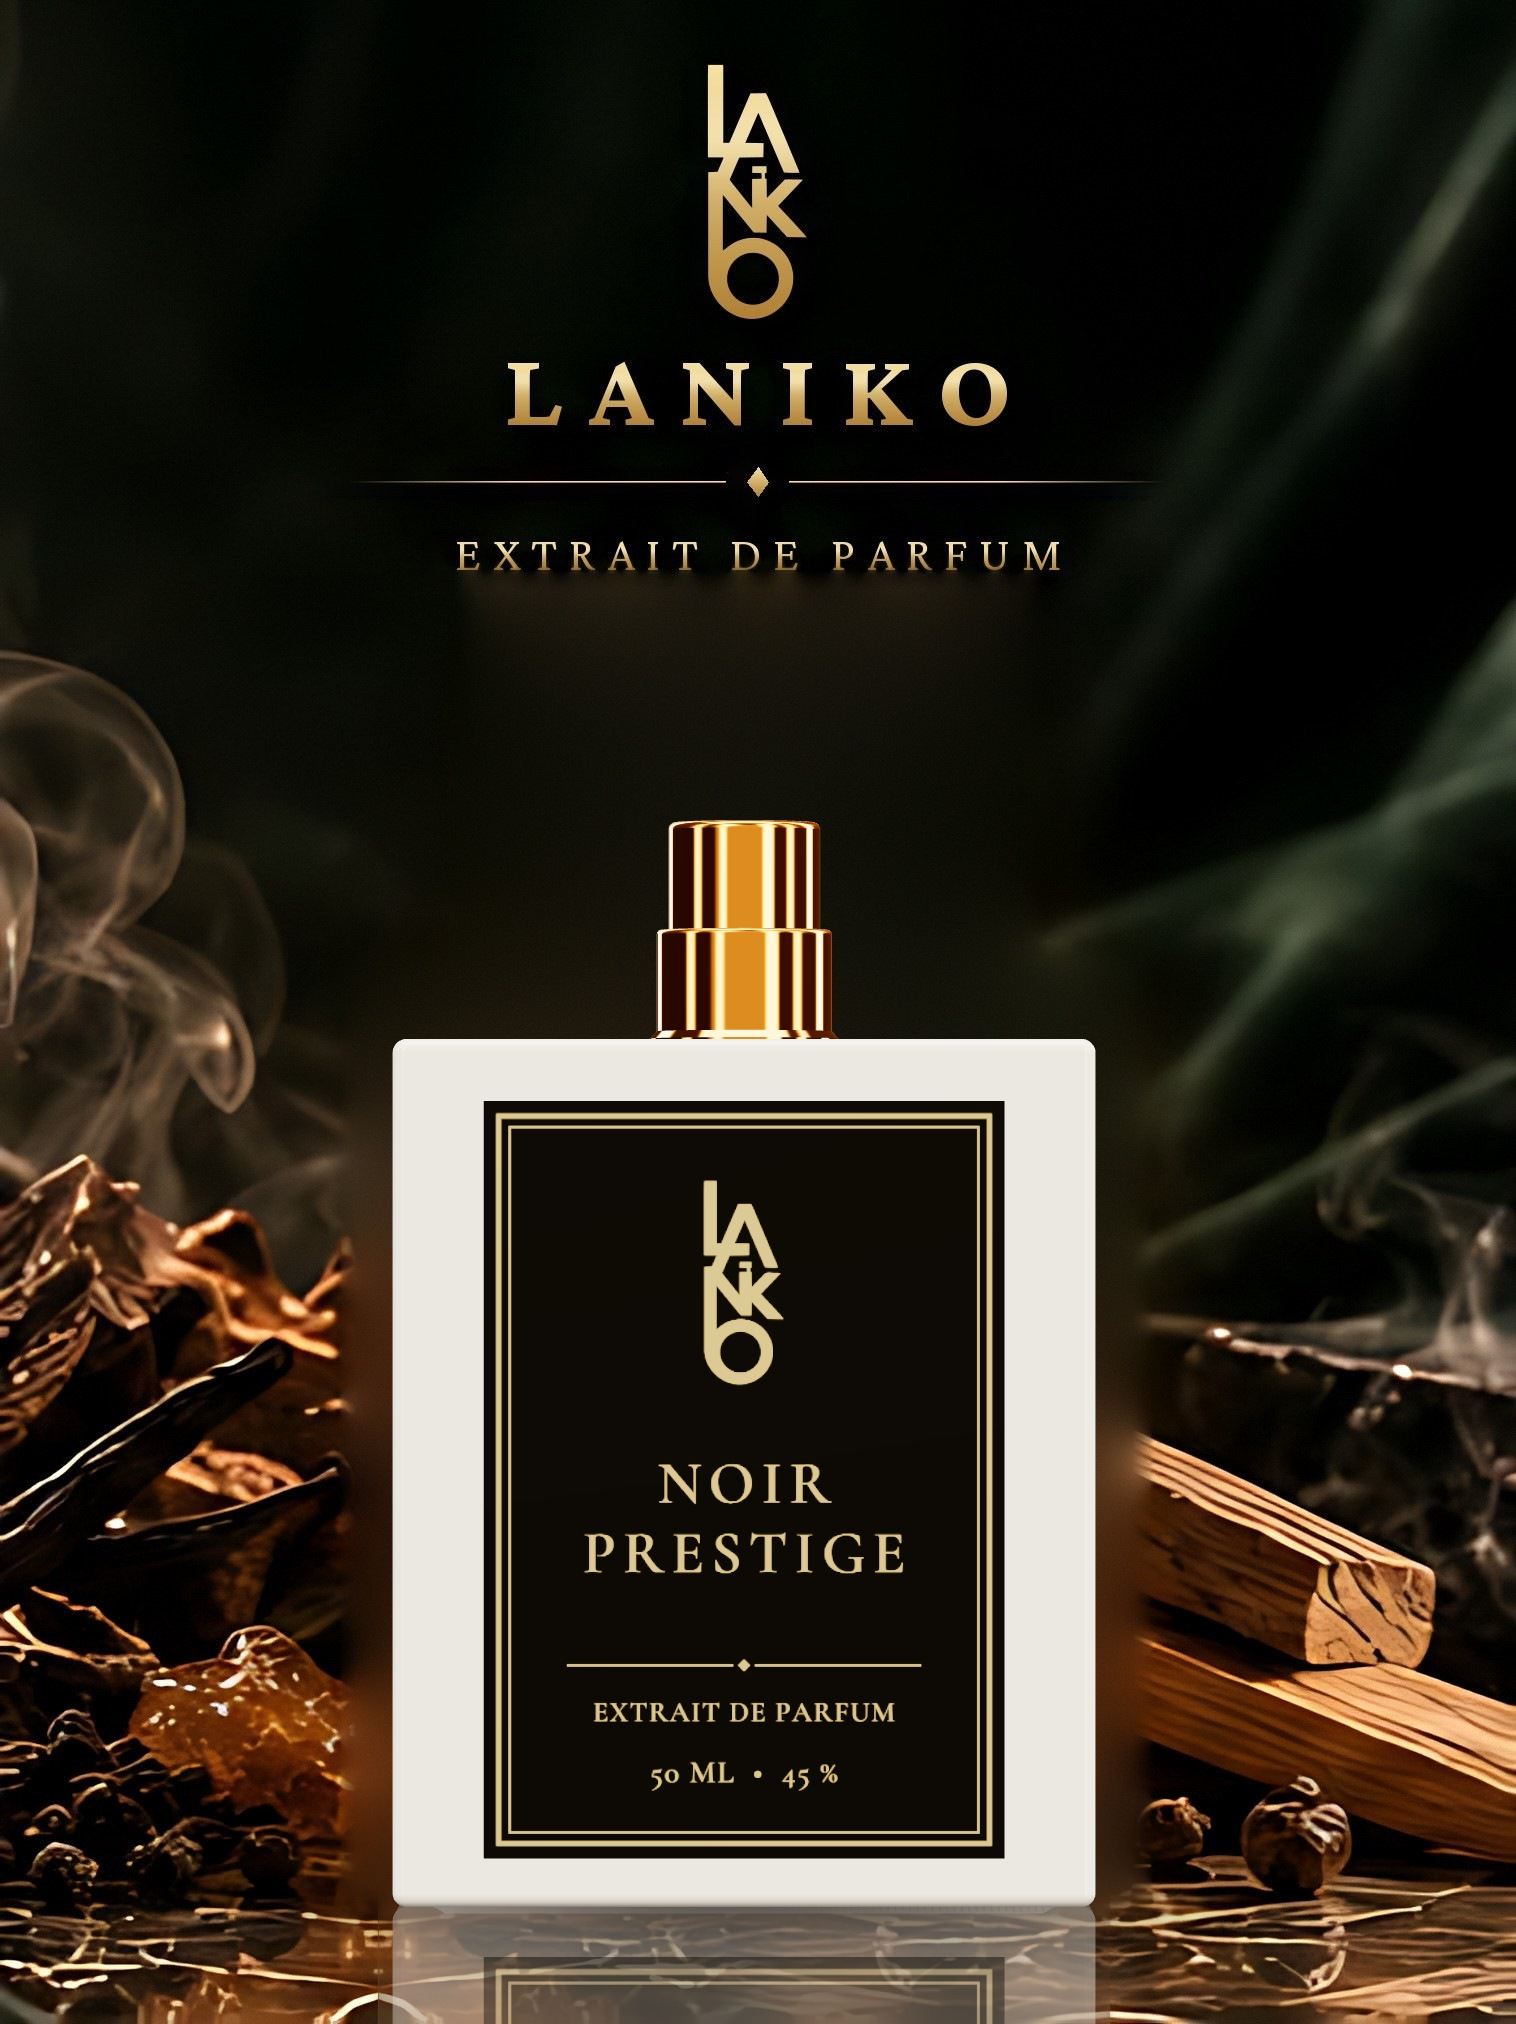
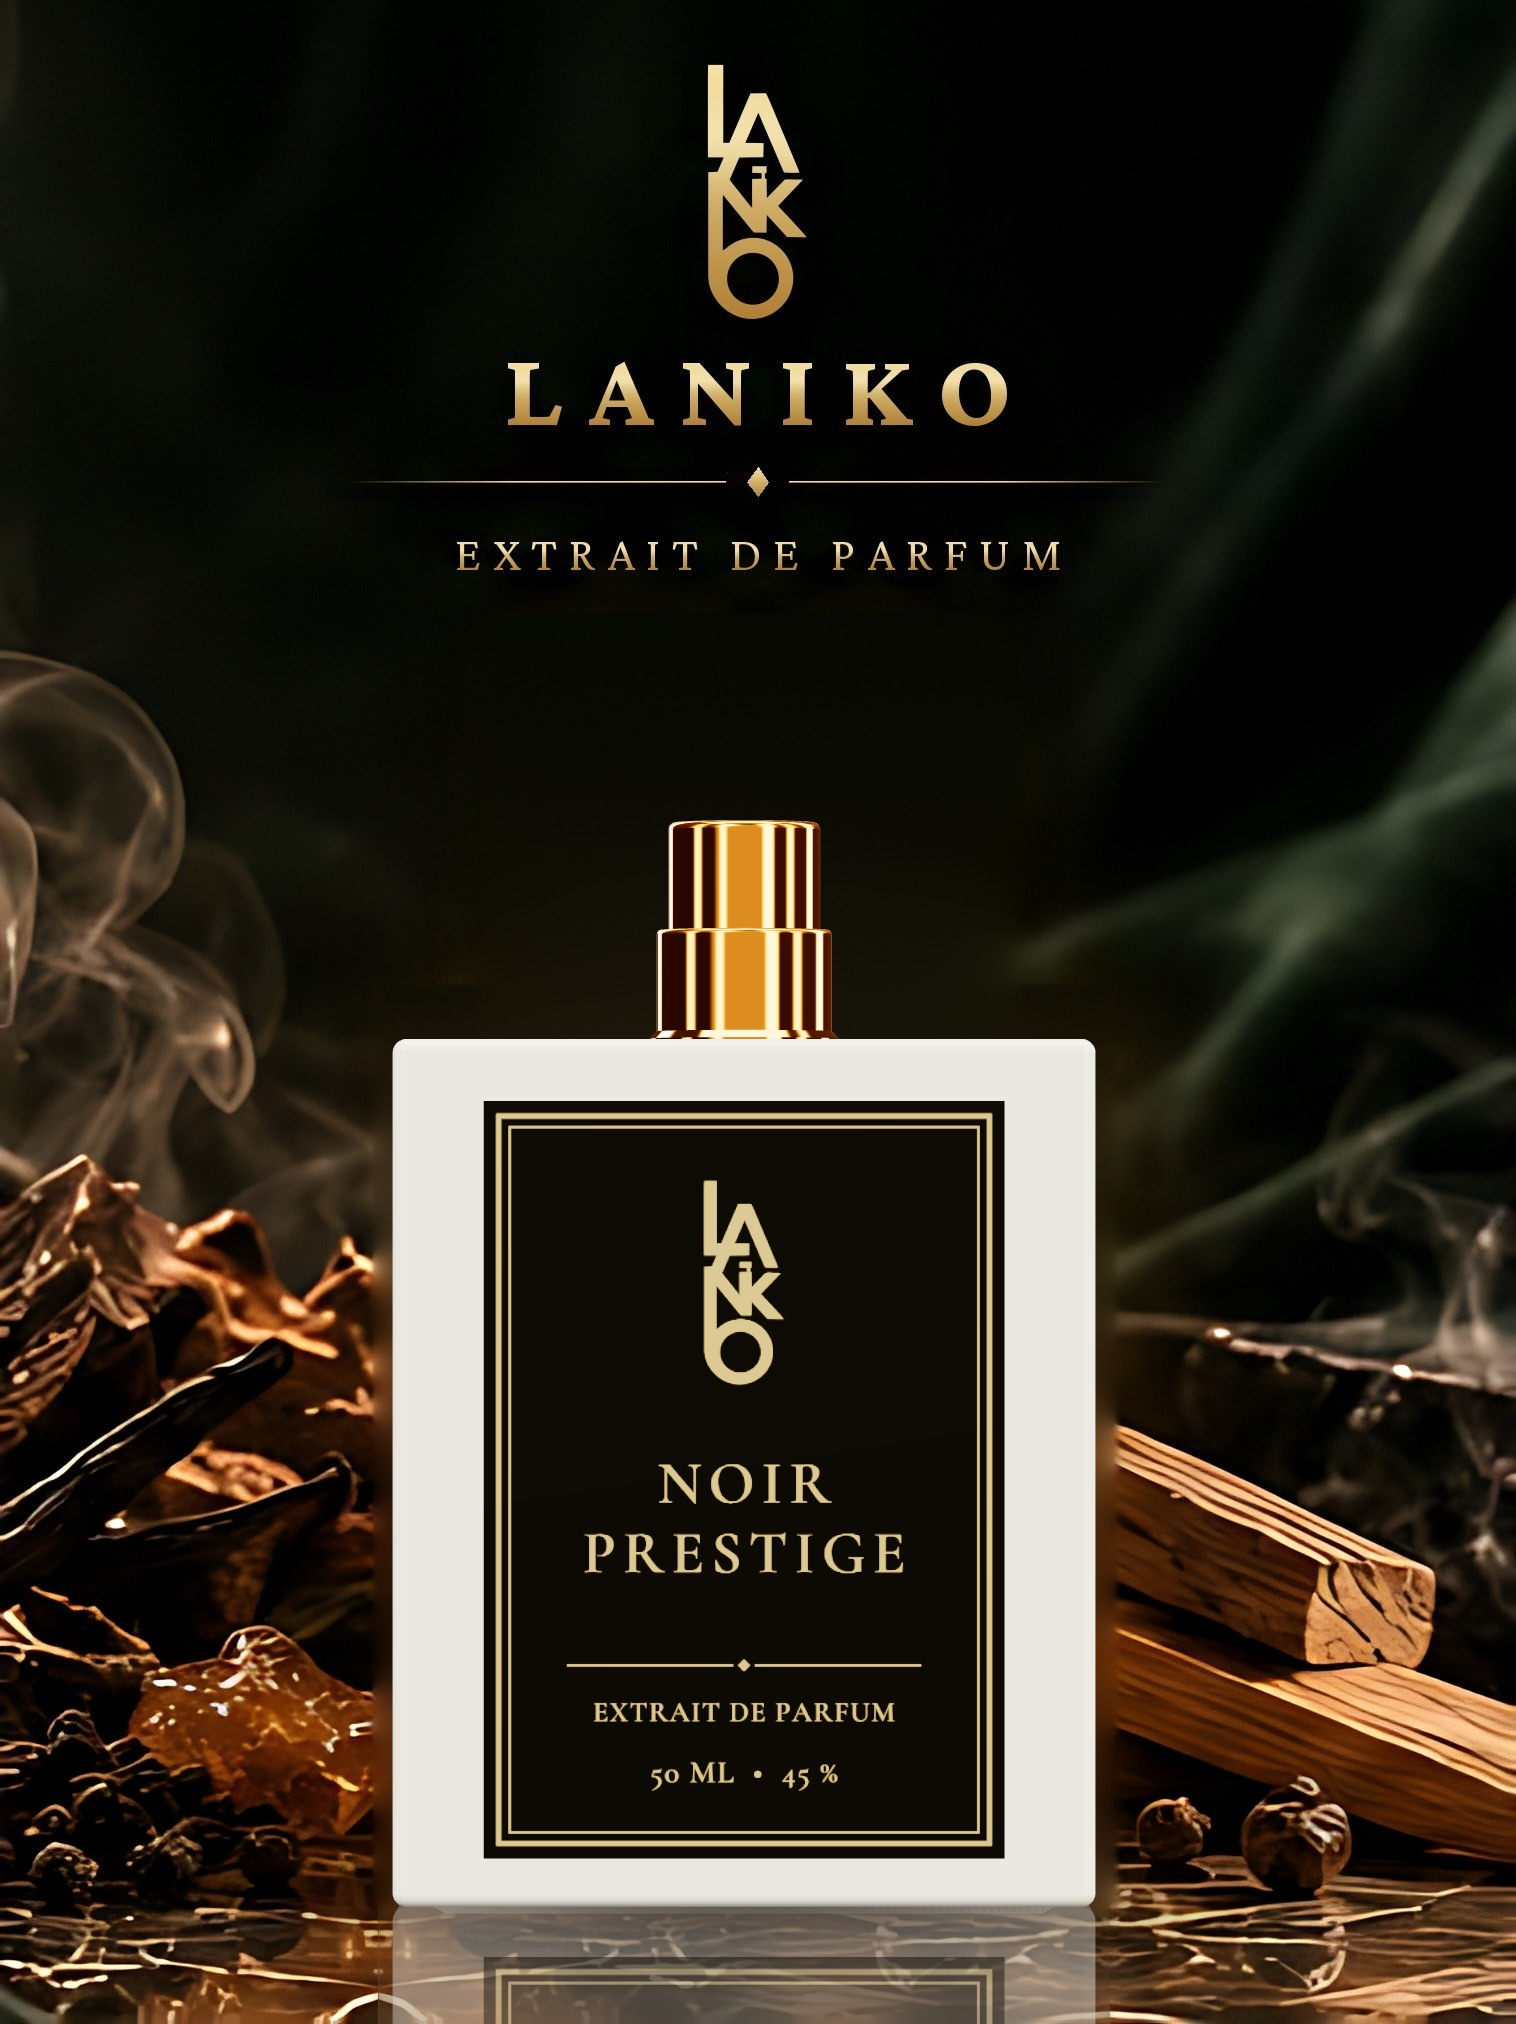
Animate every smoke in every picture (smoke-only layer drifting upwards), rebuild the background behind the old bottle
Claude-Session: https://claude.ai/code/session_01UcqBSTGGdYJCsLfUZ3upKN

diff --git a/smoke-bg.js b/smoke-bg.js
@@ -45,16 +45,18 @@ vec3 smokeAt(vec2 uv, float p) {
 void main() {
   vec2 uv = vUv;
   vec3 base = texture(uBase, uv).rgb;
-  float sp = 0.125;                                   // one cycle = 8 s
+  float sp = 0.1667;                                  // one cycle = 6 s
   float p1 = fract(uTime * sp);
   float p2 = fract(uTime * sp + 0.5);
   float w1 = 1.0 - abs(2.0 * p1 - 1.0);
   float w2 = 1.0 - w1;
   vec3 moving = smokeAt(uv, p1) * w1 + smokeAt(uv, p2) * w2;
-  moving *= 1.32;                                     // two half-faded copies are a touch thinner than one
+  moving *= 1.12;                                     // two half-faded copies are a touch thinner than one
   vec3 still = texture(uSmoke, uv).rgb;
   float k = smoothstep(0.0, 1.6, uTime);              // eases from the still picture into the motion
-  outColor = vec4(base + mix(still, moving, k), 1.0);
+  // a faint part of the smoke stays where it was (the plume never empties out), the rest climbs
+  vec3 drift = still * 0.22 + moving * 0.78;
+  outColor = vec4(base + mix(still, drift, k), 1.0);
 }`;
 
 function compile(gl, type, src) {
@@ -95,7 +97,7 @@ function makeNoise(size = 256) {
   return data;
 }
 
-export function createSmokeBackground(canvas, baseImg, smokeImg, { rise = 0.2 } = {}) {
+export function createSmokeBackground(canvas, baseImg, smokeImg, { rise = 0.17 } = {}) {
   let gl;
   try {
     gl = canvas.getContext("webgl2", { alpha: false, antialias: false, premultipliedAlpha: false, preserveDrawingBuffer: false });

diff --git a/tools/fixplate.py b/tools/fixplate.py
@@ -1,45 +1,102 @@
-import cv2, numpy as np, sys, time
-from skimage.restoration import inpaint_biharmonic
-B={
+"""Re-build the background behind the old bottle (plates-orig/<id>-bg.jpg -> images/<id>-bg.jpg).
+ low frequencies : harmonic (Laplace) fill from everything around the hole  -> same colours / glow as the surroundings
+ high frequencies: texture (silk folds, grain, haze) copied from the picture just above the hole, mirrored
+                   (taken from the smoke-free base so no smoke gets copied)
+usage: python3 tools/fixplate.py [orig_dir]   (run from the repo root; needs the original plates in orig_dir)"""
+import cv2, numpy as np, sys, os
+R = os.path.abspath(os.path.join(os.path.dirname(__file__), ".."))
+ORIG = sys.argv[1] if len(sys.argv) > 1 else "/home/claude/work/plates-orig"
+B = {  # measured on the original photos: size, body (l, r, top, bottom), cap (l, r, top)
  'blanc-royal':   dict(size=(380,506),body=(108,287,252,480),cap=(135,255,158)),
  'reve-paradoxe': dict(size=(400,500),body=(113,289,260,488),cap=(143,262,162)),
  'noir-prestige': dict(size=(379,506),body=(98,274,252,477),cap=(128,246,158)),
  'rouge-absolu':  dict(size=(374,498),body=(101,272,259,487),cap=(128,245,162)),
  'bleu-eternel':  dict(size=(375,499),body=(98,272,260,488),cap=(127,247,162)),
 }
-for pid,d in B.items():
-    t0=time.time()
-    plate=cv2.imread(f'plates-orig/{pid}-bg.jpg'); H,W=plate.shape[:2]
-    S=W/d['size'][0]; l,r,bt,bb=d['body']; cl,cr,ct=d['cap']
-    # hole = where the old bottle (cap + body) used to be, with a generous margin
-    m=np.zeros((H,W),np.uint8)
-    pad=10*S
-    cv2.rectangle(m,(int((cl-4)*S-pad),int((ct-5)*S-pad)),(int((cr+4)*S+pad),int(bt*S)),1,-1)
-    cv2.rectangle(m,(int((l-3.5)*S-pad),int((bt-6)*S-pad)),(int((r+3.5)*S+pad),int(bb*S)),1,-1)
-    k=4
-    small=cv2.resize(plate,(W//k,H//k),interpolation=cv2.INTER_AREA)
-    ms=cv2.resize(m,(W//k,H//k),interpolation=cv2.INTER_NEAREST).astype(bool)
-    # harmonic (Laplace) fill: smooth continuation of the colours around the hole, multi-scale then relaxed
-    known=(~ms).astype(np.float32)[...,None]
-    sm=small.astype(np.float32)
-    est=np.zeros_like(sm)
-    for sg in (60,30,15,8):
-        num=cv2.GaussianBlur(sm*known,(0,0),sg); den=cv2.GaussianBlur(known,(0,0),sg)[...,None] if known.ndim==3 else cv2.GaussianBlur(known,(0,0),sg)
-        e=num/np.maximum(den,1e-3)
-        est=np.where((den>0.02)&(est==0),e,est) if sg==60 else np.where(den>0.08,e,est)
-    cur=np.where(ms[...,None],est,sm)
-    for it in range(600):
-        nb=cv2.blur(cur,(3,3))
-        cur=np.where(ms[...,None],nb,sm)
-    fill=cur
-    fill=cv2.resize(fill,(W,H),interpolation=cv2.INTER_CUBIC)
-    # a soft feathered alpha: fully replaced in the middle, blended on a wide border
-    a=cv2.GaussianBlur(m.astype(np.float32),(0,0),pad*0.45)
-    a=np.clip((a-0.15)/0.7,0,1)
-    a=np.maximum(a,cv2.erode(m,np.ones((int(pad),)*2)).astype(np.float32))
-    a=a[...,None]
-    grain=np.random.default_rng(3).normal(0,2.0,plate.shape).astype(np.float32)
-    out=plate.astype(np.float32)*(1-a)+(fill+grain)*a
-    cv2.imwrite(f'/home/claude/laniko/images/{pid}-bg.jpg',np.clip(out,0,255).astype(np.uint8),[cv2.IMWRITE_JPEG_QUALITY,90])
-    cv2.imwrite(f'fp-{pid}.png',cv2.resize(np.hstack([plate,np.clip(out,0,255).astype(np.uint8)]),(1000,H*500//W)))
-    print(pid,round(time.time()-t0,1),flush=True)
+def harmonic(small, hole):
+    known = (~hole).astype(np.float32)[..., None]
+    est = np.zeros_like(small)
+    for i, sg in enumerate((60, 30, 15, 8)):
+        den = cv2.GaussianBlur(known, (0, 0), sg)[..., None]
+        e = cv2.GaussianBlur(small * known, (0, 0), sg)[..., None] if False else cv2.GaussianBlur(small * known, (0, 0), sg) / np.maximum(den, 1e-3)
+        est = np.where(den > (0.02 if i == 0 else 0.08), e, est)
+    cur = np.where(hole[..., None], est, small)
+    for _ in range(700):
+        cur = np.where(hole[..., None], cv2.blur(cur, (3, 3)), small)
+    return cur
+for pid, d in B.items():
+    plate = cv2.imread(f"{ORIG}/{pid}-bg.jpg"); H, W = plate.shape[:2]
+    base = cv2.imread(f"{R}/images/{pid}-smoke-base.jpg")
+    S = W / d['size'][0]; l, r, bt, bb = d['body']; cl, cr, ct = d['cap']
+    pad = int(6 * S)
+    cap = (int((cl - 4) * S) - pad, int((ct - 5) * S), int((cr + 4) * S) + pad, int(bt * S) + pad)   # top edge sits right under the name   # x0,y0,x1,y1
+    side = int(2 * S)
+    body = (int((l - 3.5) * S) - side, int((bt - 2.5) * S), int((r + 3.5) * S) + side, int(bb * S))   # sides hug the body: the real surroundings stay untouched
+    m = np.zeros((H, W), np.uint8)
+    mc = np.zeros((H, W), np.uint8); mb = np.zeros((H, W), np.uint8)
+    x0, y0, x1, y1 = cap; mc[y0:y1, x0:x1] = 1
+    x0, y0, x1, y1 = body; mb[y0:y1, x0:x1] = 1
+    m = np.maximum(mc, mb)
+    # low frequencies: for every row, blend the colours just left and right of the hole (keeps each row's own
+    # brightness, so the glow / vignette continues straight across), smoothed down the rows
+    rows = np.where(m.any(1))[0]
+    xl = np.zeros(H, int); xr = np.zeros(H, int)
+    for y in rows:
+        xs = np.where(m[y])[0]; xl[y], xr[y] = xs.min(), xs.max() + 1
+    pf = plate.astype(np.float32)
+    Lc = np.zeros((H, 3), np.float32); Rc = np.zeros((H, 3), np.float32)
+    ew = int(5 * S)
+    for y in rows:
+        Lc[y] = pf[y, max(0, xl[y] - 2 * ew):xl[y] - ew].mean(0)
+        Rc[y] = pf[y, xr[y] + ew:min(W, xr[y] + 2 * ew)].mean(0)
+    from scipy.ndimage import gaussian_filter1d
+    sy = 7 * S
+    y0r, y1r = rows.min(), rows.max() + 1
+    Lc[y0r:y1r] = gaussian_filter1d(Lc[y0r:y1r], sy, axis=0, mode="nearest")
+    Rc[y0r:y1r] = gaussian_filter1d(Rc[y0r:y1r], sy, axis=0, mode="nearest")
+    low = pf.copy()
+    for y in rows:
+        n = xr[y] - xl[y]
+        t = np.linspace(0, 1, n, dtype=np.float32)[:, None]; t = t * t * (3 - 2 * t) * 0.7 + t * 0.3
+        low[y, xl[y]:xr[y]] = Lc[y] * (1 - t) + Rc[y] * t
+    # deep inside (hidden behind the body, seen only when the bottle is tipped): smooth harmonic fill, no row bands
+    k = 4
+    small = cv2.resize(plate, (W // k, H // k), interpolation=cv2.INTER_AREA).astype(np.float32)
+    hs = cv2.resize(m, (W // k, H // k), interpolation=cv2.INTER_NEAREST).astype(bool)
+    harm = cv2.resize(harmonic(small, hs), (W, H), interpolation=cv2.INTER_CUBIC)
+    yy = np.arange(H, dtype=np.float32)[:, None, None]
+    wB = np.clip((yy - 0.30 * H) / (0.06 * H), 0, 1); wB = wB * wB * (3 - 2 * wB)
+    low = low * (1 - wB) + harm * wB
+    # texture donor: the picture just left and right of the hole (smoke-free base), mirrored into the hole and
+    # cross-faded; only above the flowers, below that the smooth fill is used
+    x0c, x1c = cap[0], cap[2]
+    wd = x1c - x0c; half = wd // 2
+    Ld = base[:, x0c - half:x0c][:, ::-1].astype(np.float32)        # left of the hole, flipped: continuous at the edge
+    Rd = base[:, x1c:x1c + (wd - half)][:, ::-1].astype(np.float32)  # right of the hole, flipped
+    t = np.linspace(0, 1, wd, dtype=np.float32)
+    t = np.clip((t - 0.35) / 0.3, 0, 1); t = (t * t * (3 - 2 * t))[None, :, None]
+    Lfull = np.concatenate([Ld, Ld[:, ::-1]], 1)[:, :wd]
+    Rfull = np.concatenate([Rd[:, ::-1], Rd], 1)[:, -wd:] if Rd.shape[1] == wd - half else np.concatenate([Rd[:, ::-1], Rd], 1)[:, -wd:]
+    donor_full = np.zeros((H, W, 3), np.float32)
+    donor_full[:, x0c:x1c] = Lfull * (1 - t) + Rfull * t
+    detail = cv2.GaussianBlur(donor_full, (0, 0), 1.2) - cv2.GaussianBlur(donor_full, (0, 0), 28)
+    detail[:, : x0c + 8] = 0; detail[:, x1c - 8:] = 0
+    ylim = int(0.335 * H)
+    detail[ylim:] *= np.clip(1 - (np.arange(ylim, H) - ylim)[:, None, None] / (0.04 * H), 0, 1)
+    detail[: cap[1]] = 0
+    # hole interior (cap zone) gets full detail; deeper (hidden behind the body) gets a calmer version
+    wt = np.zeros((H, W), np.float32); wt[cap[1]:cap[3], cap[0]:cap[2]] = 1; wt[body[1]:body[3], body[0]:body[2]] = np.maximum(wt[body[1]:body[3], body[0]:body[2]], 0.55)
+    filled = low + detail * wt[..., None] * 0.0
+    # grain like the rest of the picture
+    hp = plate.astype(np.float32) - cv2.GaussianBlur(plate.astype(np.float32), (0, 0), 1.5)
+    sigma = float(hp[int(0.30 * H):int(0.36 * H), int(0.35 * W):int(0.65 * W)].std()) if False else float(hp[:int(0.25 * H), :int(0.1 * W)].std())
+    filled += np.random.default_rng(5).normal(0, min(sigma, 3.0), filled.shape).astype(np.float32) * 0.6
+    def feather(mk, sx, sy):
+        a_ = cv2.GaussianBlur(mk.astype(np.float32), (0, 0), sigmaX=sx, sigmaY=sy)
+        return np.clip((a_ - 0.1) / 0.7, 0, 1)
+    ac = feather(mc, 9 * S, 1.8 * S)          # above the shoulder: wide, soft sides so there is no visible box
+    ab = feather(mb, 1.6 * S, 1.8 * S)         # around the body: tight
+    a = np.maximum(ac, np.maximum(ab, cv2.erode(mb, np.ones((int(3 * S), int(3 * S)), np.uint8)).astype(np.float32)))[..., None]
+    out = np.clip(plate.astype(np.float32) * (1 - a) + filled * a, 0, 255).astype(np.uint8)
+    cv2.imwrite(f"{R}/images/{pid}-bg.jpg", out, [cv2.IMWRITE_JPEG_QUALITY, 92])
+    print(pid, "grain", round(sigma, 2), flush=True)

diff --git a/tools/smokesplit.py b/tools/smokesplit.py
@@ -5,14 +5,16 @@
 import cv2, json, numpy as np, os
 R = os.path.join(os.path.dirname(os.path.abspath(__file__)), "..")
 IMG = os.path.join(R, "images")
-# where smoke may be taken from: (x0, x1, y_max) boxes in plate fractions (above these lines are only wisps,
-# below them there are flowers / props that must never move)
+# Where the smoke is, per picture: (x0, x1, y0, y1, r0) as fractions of the plate. r0 = how coloured the light
+# may be and still count as smoke (low for the golden incense smoke). Outside these boxes nothing ever moves, so
+# flowers, fruit, wood, crystals and silk stay still. Inside them only light that brightens all three colours
+# (= smoke) is taken, so the rose / silk inside a box also stays still.
 ZONES = {
-    "blanc-royal":   [(0.00, 0.34, 0.40), (0.68, 1.00, 0.42)],
-    "reve-paradoxe": [(0.00, 0.34, 0.29)],
-    "noir-prestige": [(0.00, 0.34, 0.42)],
-    "rouge-absolu":  [(0.00, 0.34, 0.38), (0.74, 1.00, 0.55)],
-    "bleu-eternel":  [(0.00, 0.34, 0.31)],
+    "blanc-royal":   [(0.00, 0.31, 0.00, 0.42, 0.30), (0.68, 1.00, 0.08, 0.46, 0.30)],
+    "reve-paradoxe": [(0.00, 0.32, 0.00, 0.37, 0.22), (0.70, 1.00, 0.35, 0.46, 0.08)],
+    "noir-prestige": [(0.00, 0.31, 0.26, 0.47, 0.25), (0.70, 1.00, 0.38, 0.52, 0.12)],
+    "rouge-absolu":  [(0.00, 0.32, 0.00, 0.46, 0.30), (0.74, 1.00, 0.40, 0.57, 0.14)],
+    "bleu-eternel":  [(0.00, 0.33, 0.00, 0.37, 0.30)],
 }
 def build(pid):
     plate = cv2.imread(f"{IMG}/{pid}-bg.jpg")
@@ -20,10 +22,14 @@ def build(pid):
     h, w = H // 2, W // 2
     small = cv2.resize(plate, (w, h), interpolation=cv2.INTER_AREA).astype(np.float32)
     zone = np.zeros((h, w), np.float32)
-    for x0, x1, ym in ZONES[pid]:
-        zone[: int(ym * h), int(x0 * w): int(x1 * w)] = 1
+    r0map = np.full((h, w), 0.30, np.float32)
+    for x0, x1, y0, y1, r0 in ZONES[pid]:
+        zone[int(y0 * h): int(y1 * h), int(x0 * w): int(x1 * w)] = 1
+        r0map[int(y0 * h): int(y1 * h), int(x0 * w): int(x1 * w)] = r0
     zone[: int(0.27 * h), int(0.21 * w): int(0.79 * w)] = 0   # never touch the logo / name
-    zone = cv2.GaussianBlur(zone, (0, 0), 14)
+    zone[int(0.33 * h):, int(0.28 * w): int(0.72 * w)] = 0    # nor the (re-built) background behind the bottle
+    zone = cv2.GaussianBlur(zone, (0, 0), 10)
+    r0map = cv2.GaussianBlur(r0map, (0, 0), 10)
     m = zone
     # smoke is light that is (almost) colourless: take the weakest colour channel and remove everything
     # that is wider than a wisp (lower envelope), what is left is the smoke
@@ -36,7 +42,7 @@ def build(pid):
     white = cv2.GaussianBlur(white, (0, 0), 2.0)
     rb = cv2.GaussianBlur(resid, (0, 0), 3)
     ratio = rb.min(2) / (rb.max(2) + 2.0)                       # smoke is nearly colourless, silk / flowers are coloured
-    colourless = np.clip((ratio - 0.30) / 0.17, 0, 1)
+    colourless = np.clip((ratio - r0map) / 0.17, 0, 1)
     layer = resid * (white * colourless * m)[..., None]
     layer = cv2.GaussianBlur(layer, (0, 0), 1.0)
     layer = np.minimum(layer, small)
